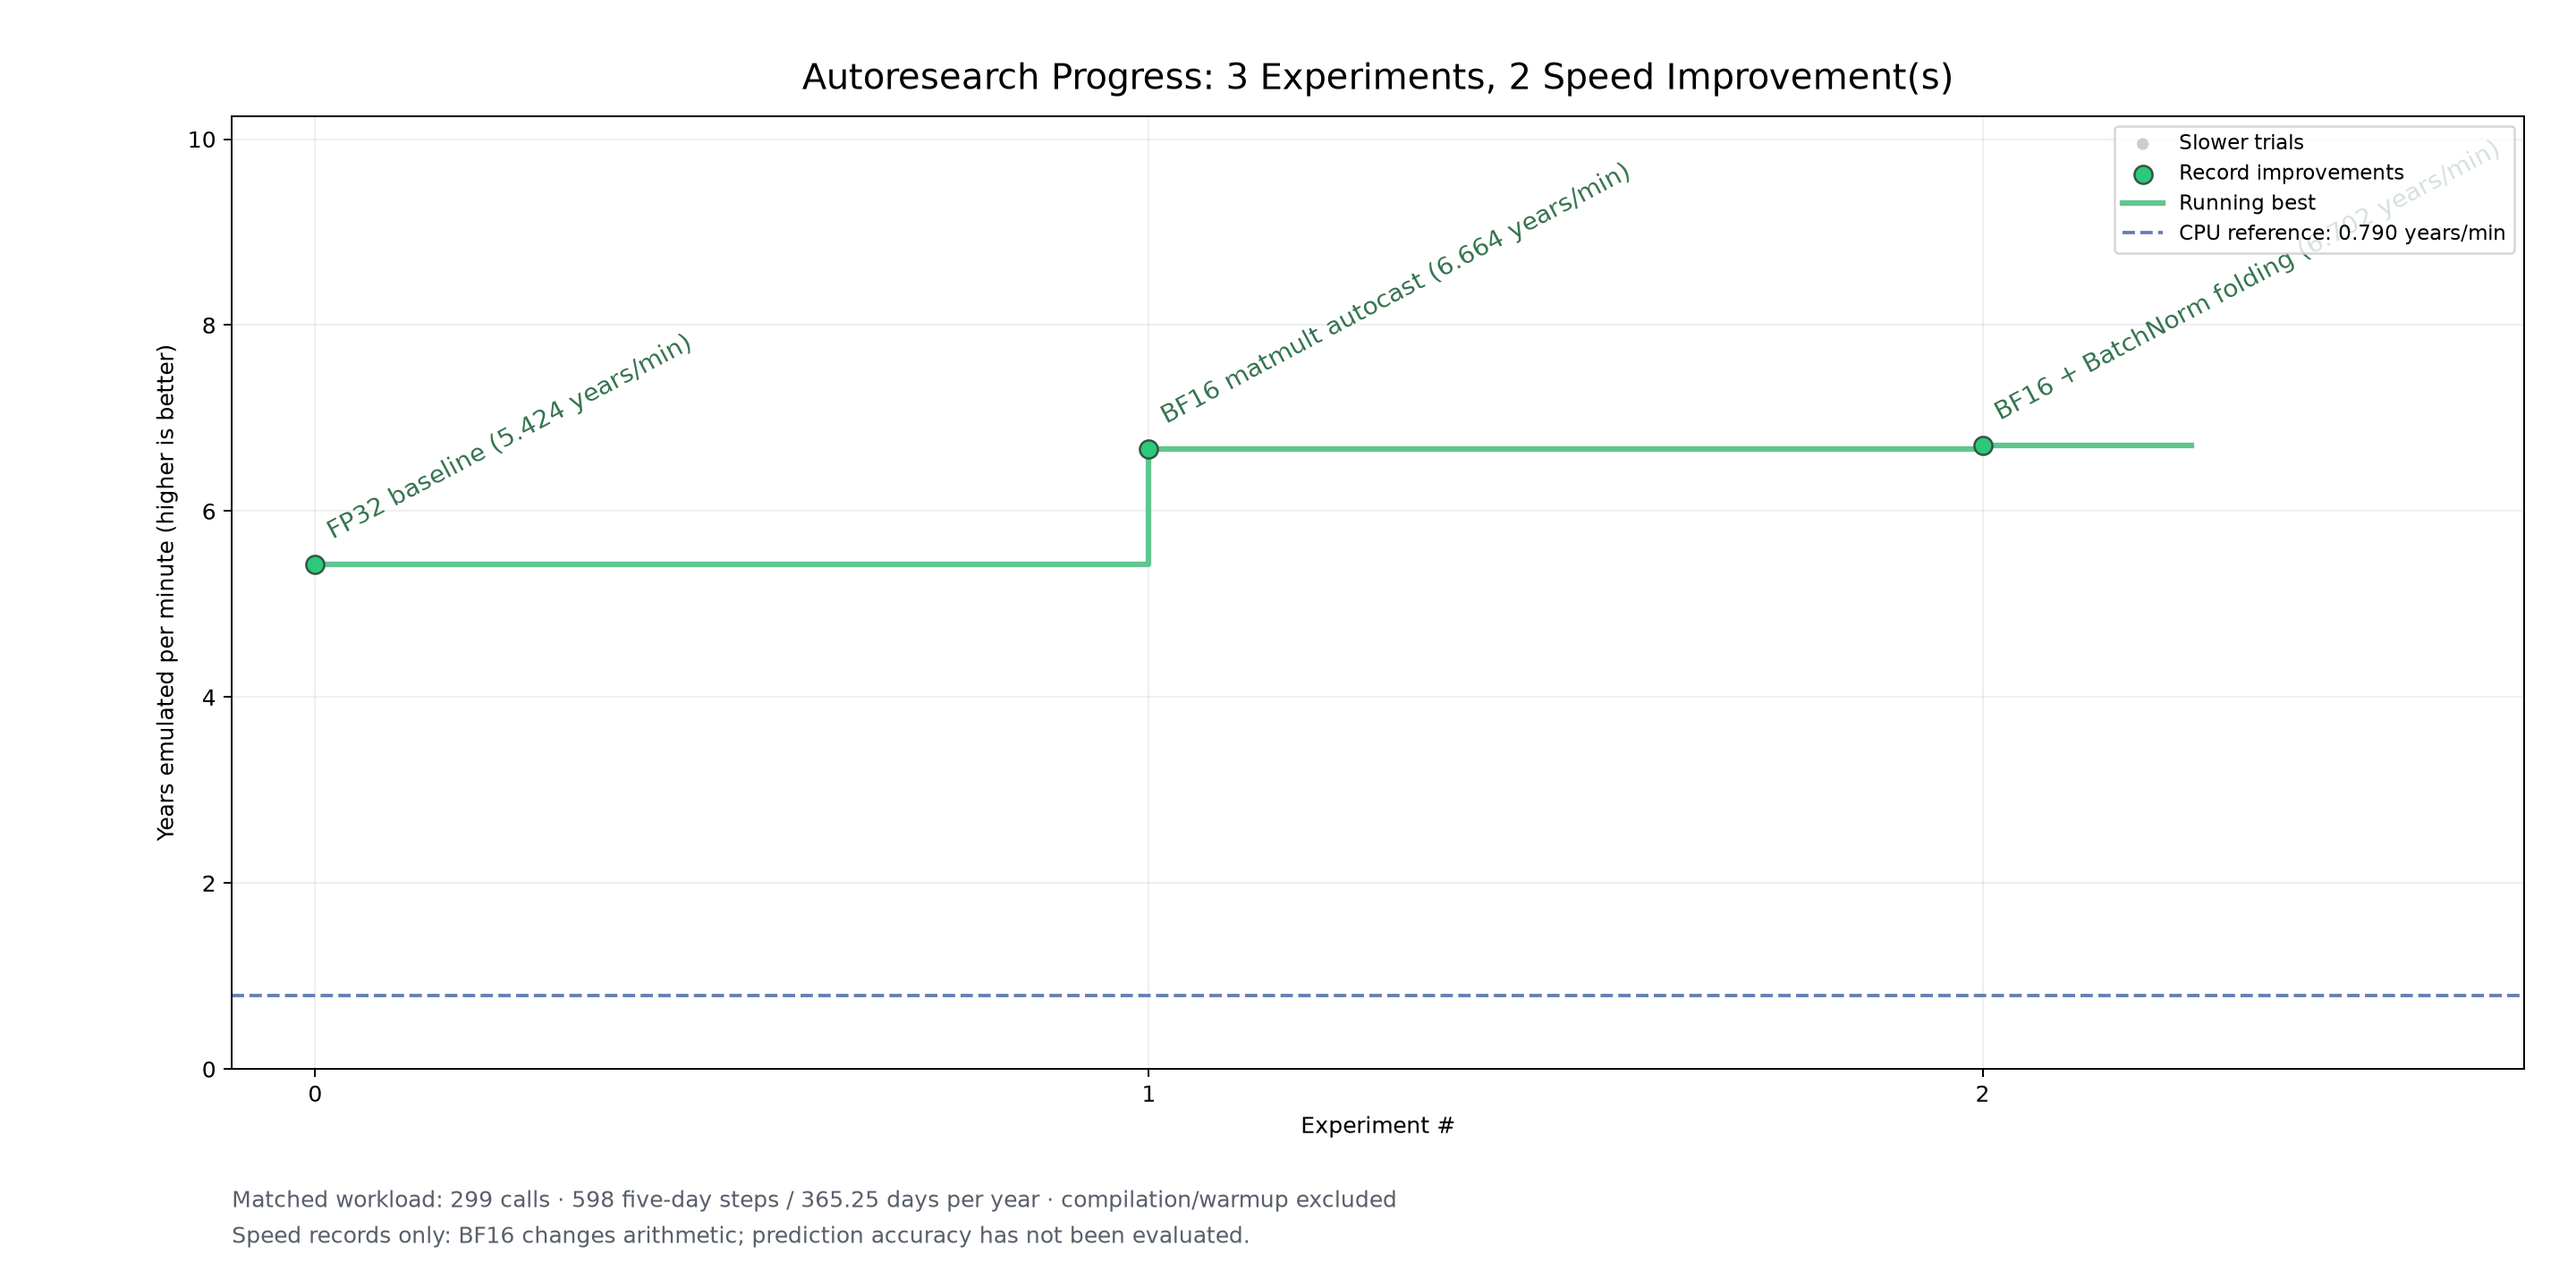
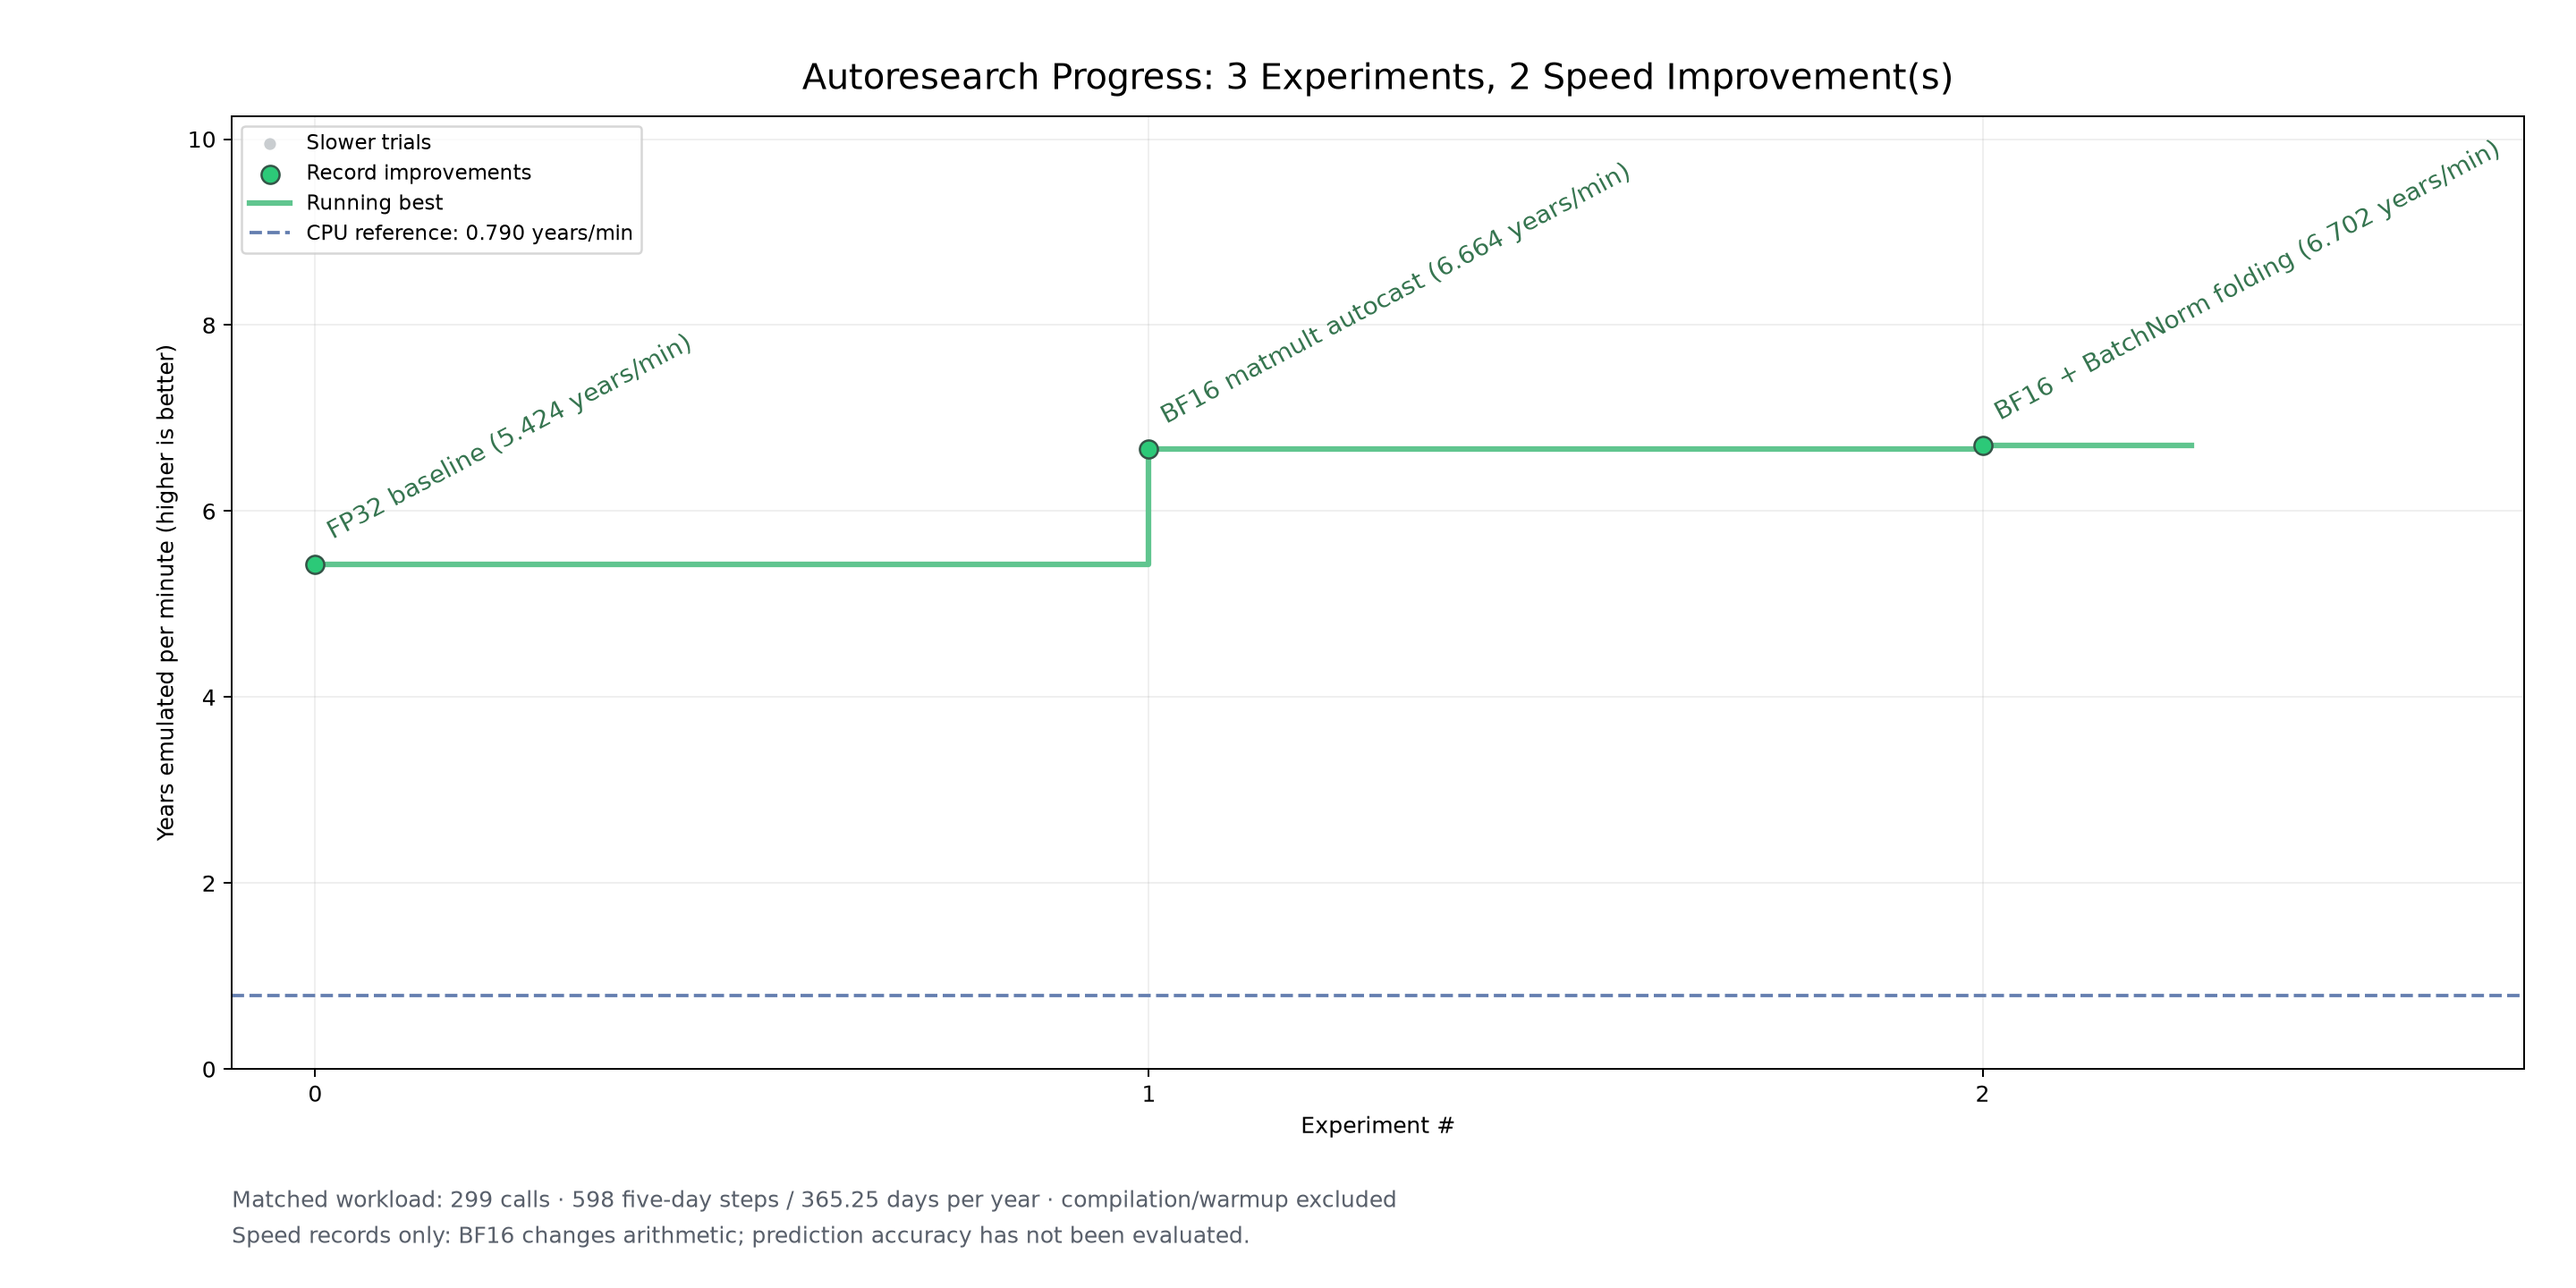
Keep throughput plot legend clear of trial annotations

Changed region(s): [[0.8125, 0.0938, 0.9688, 0.2188], [0.0938, 0.0938, 0.25, 0.1875]]

diff --git a/projects/03-mechanical-sympathy/runners/plot_forward_progress.py b/projects/03-mechanical-sympathy/runners/plot_forward_progress.py
@@ -220,7 +220,9 @@ def main():
     )
     ax.grid(alpha=0.2)
     ax.set_axisbelow(True)
-    ax.legend(loc="upper right", frameon=True, fontsize=9)
+    ax.legend(
+        loc="upper left" if throughput else "upper right", frameon=True, fontsize=9
+    )
     footer = (
         (
             f"Matched workload: {rows[0]['calls']} calls · 598 five-day steps / 365.25 days per year · "
